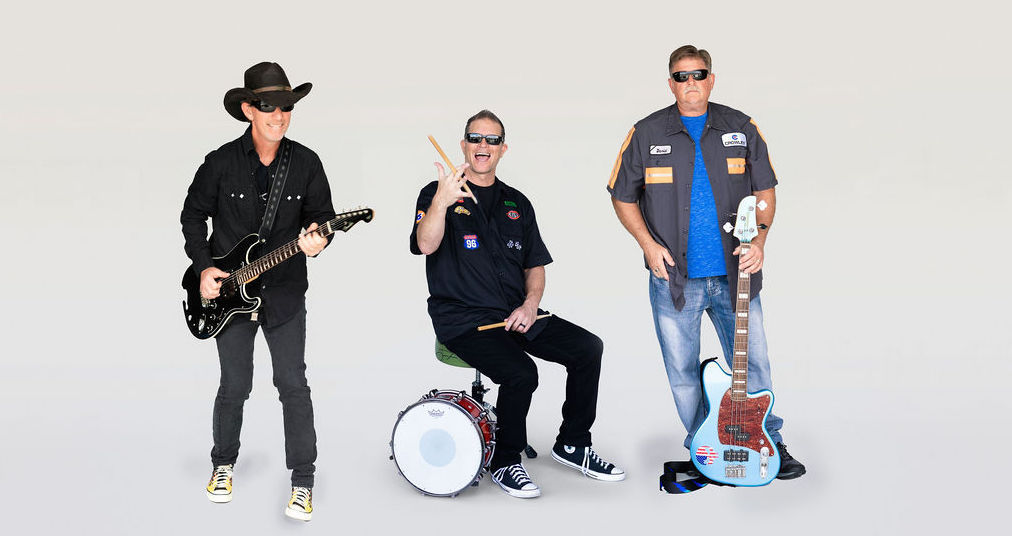
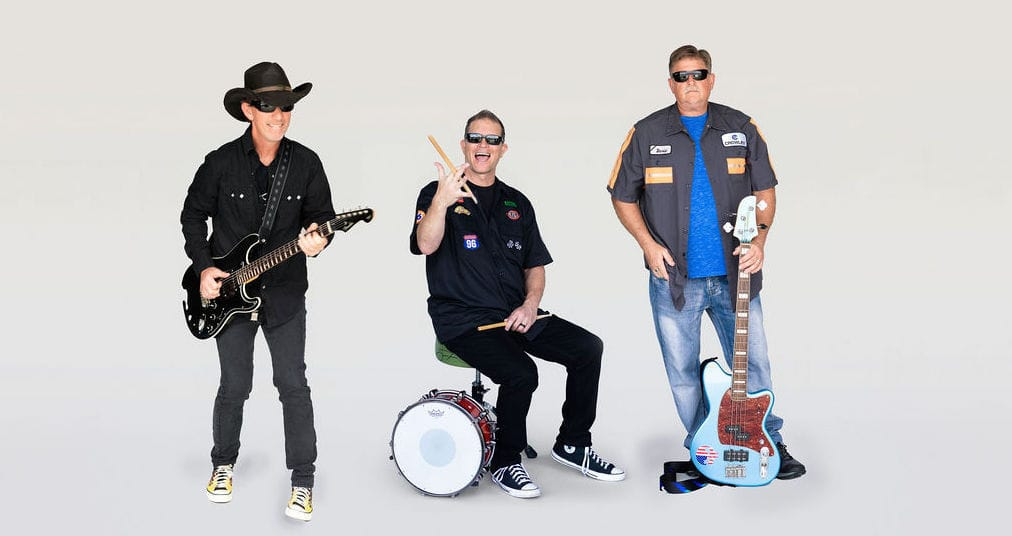
optimizes images

diff --git a/index.html b/index.html
@@ -59,7 +59,7 @@
         <img src="images/jyf5.jpg" class= "d-block w-100 h-100 object-fit-cover" alt="JYF Band">
       </div>
       <div class="carousel-item">
-        <img src="images/jyf-2.png" class= "d-block w-100 h-100 object-fit-cover" alt="JYF Band">
+        <img src="images/jyf-2.jpg" class= "d-block w-100 h-100 object-fit-cover" alt="JYF Band">
       </div>
       <div class="carousel-item">
         <img src="images/jyf1.jpg" class= "d-block w-100 h-100 object-fit-cover" alt="JYF Band">
